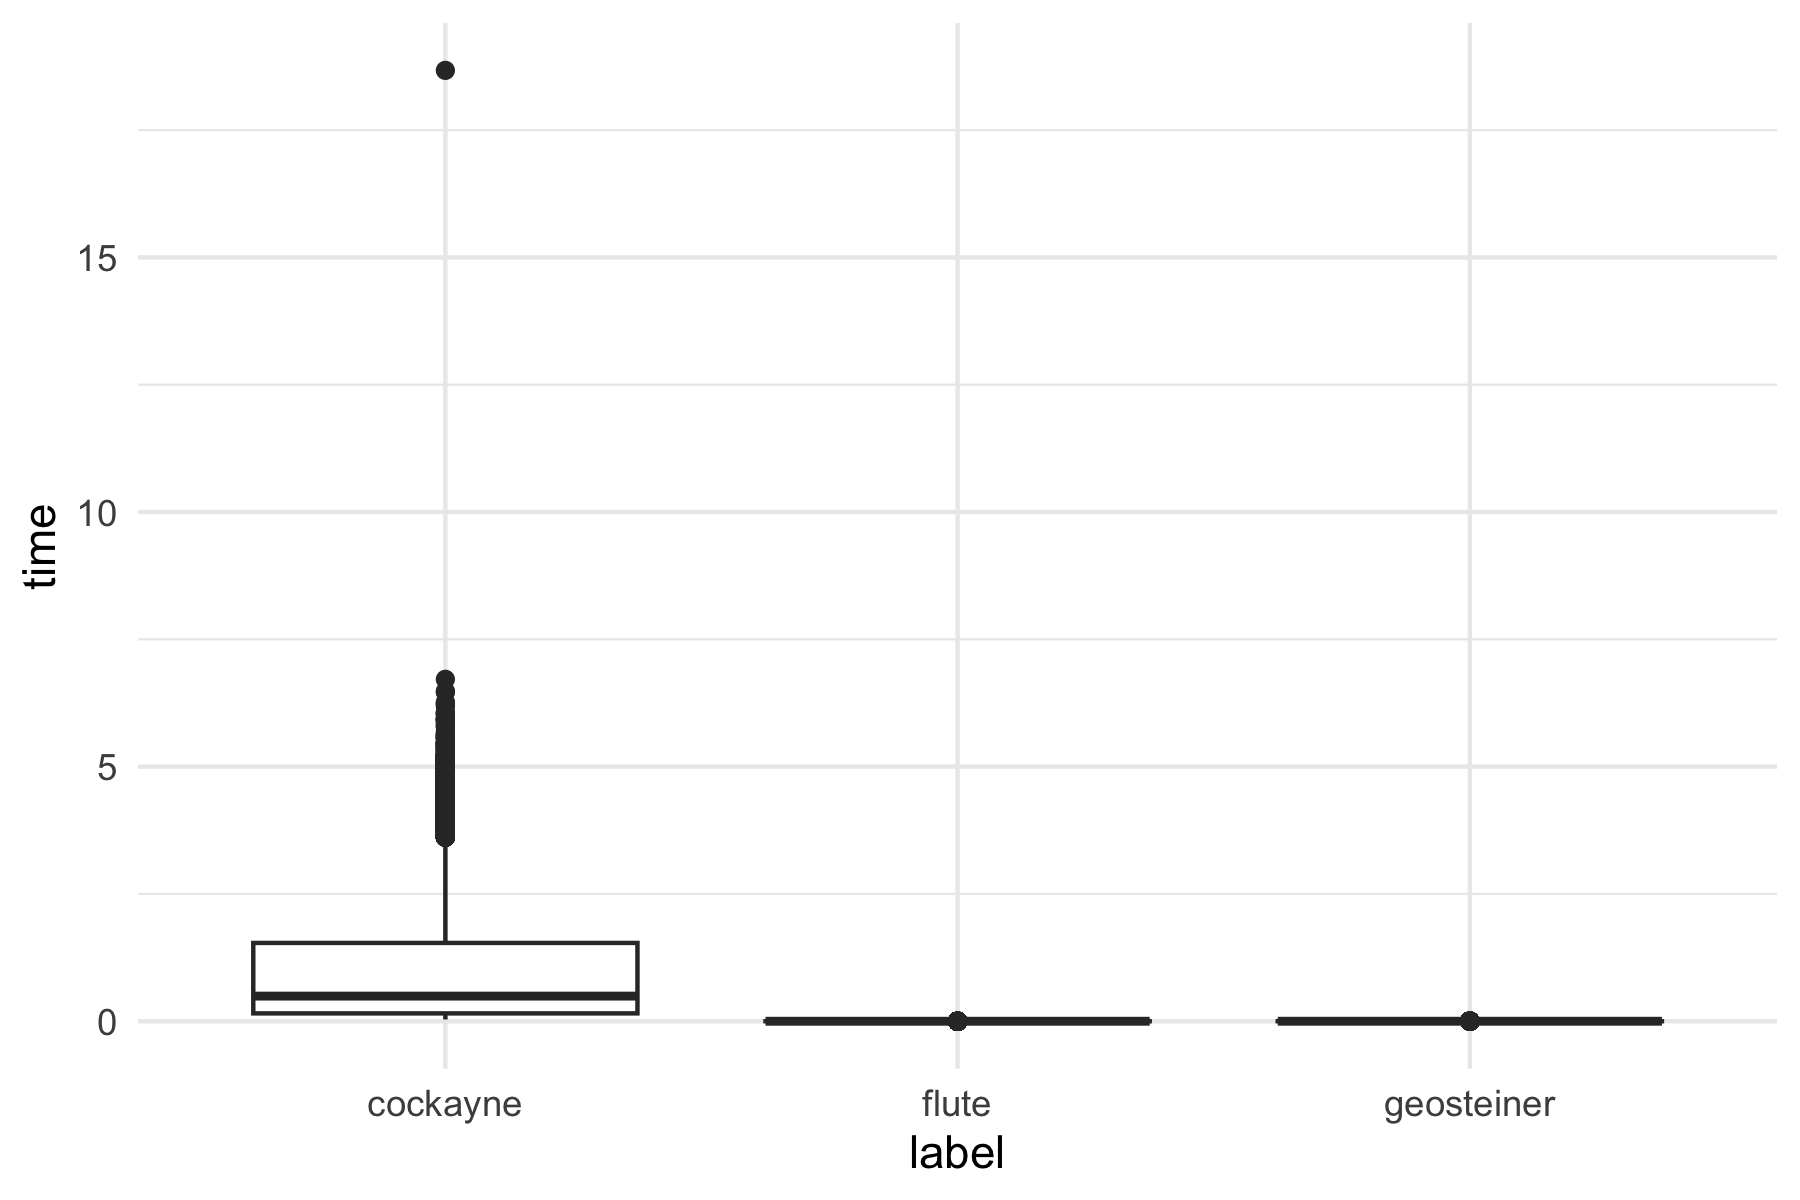
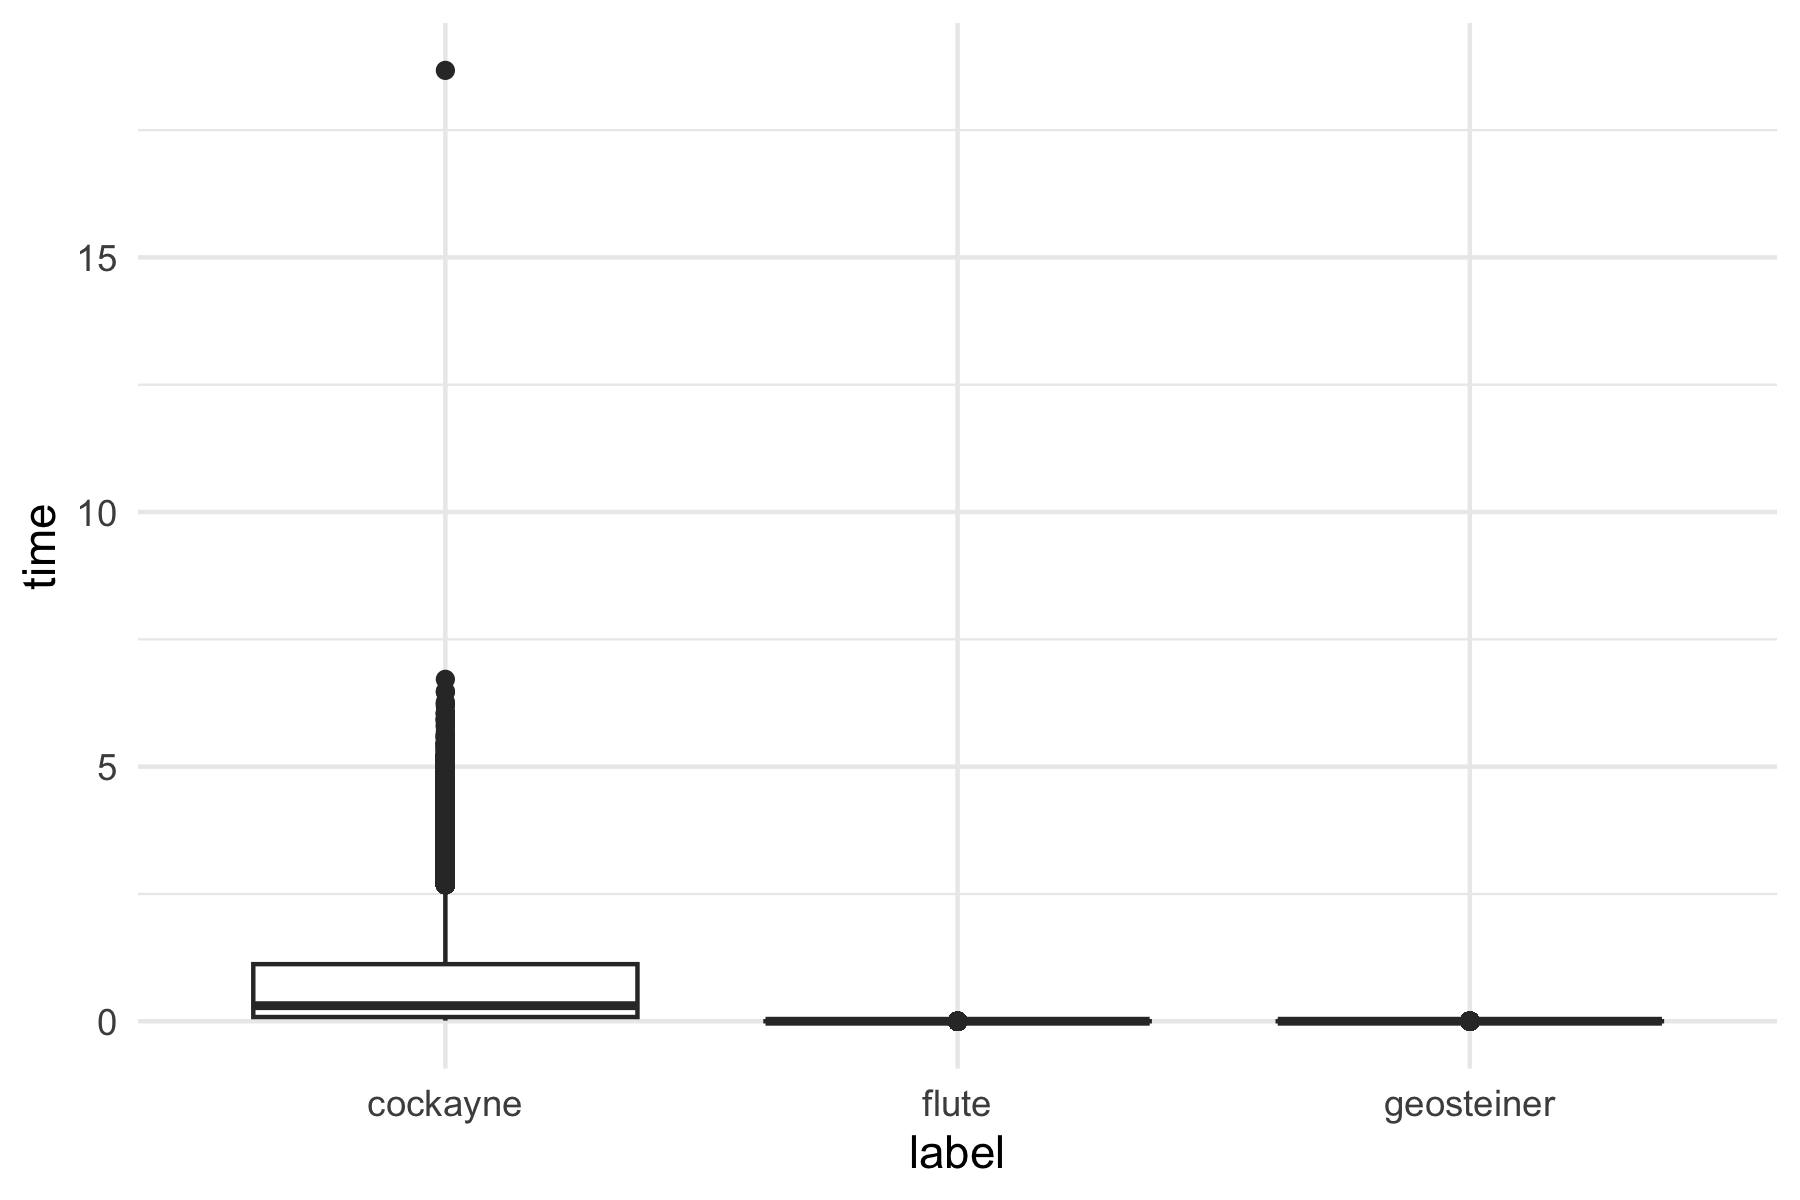
Included data analysis

Changed region(s): [[0.1244, 0.7708, 0.3733, 0.8633], [0.2178, 0.7092, 0.28, 0.74]]

diff --git a/README.md b/README.md
@@ -96,3 +96,96 @@ Dependencies:
 
 ```
 ```
+## 📊 Data Analysis
+
+After generating and collecting results from the three algorithms (Cockayne, Geosteiner, Flute), we perform exploratory data analysis and regression modeling in **R**.
+
+### 1. Loading the Data
+The combined results are stored in `datasets/summary.csv`. Each row corresponds to a test case and includes:
+- `num_points`: number of terminals
+- `grid_size`: maximum span of x/y coordinates
+- `*_steiner`: number of Steiner points detected by each algorithm
+- `*_wirelength`: total wirelength for each algorithm
+- `*_time`: CPU runtime for each algorithm
+
+```r
+df <- read.csv("datasets/summary.csv")
+head(df)
+````
+
+### 2. Runtime Comparison
+
+We reshape the runtime columns into a long format and compare distributions with **boxplots**:
+
+```r
+library(ggplot2)
+
+df2 <- data.frame(
+  time = c(df$cockayne_time, df$flute_time, df$geosteiner_time),
+  label = as.factor(c(
+    rep("cockayne", nrow(df)),
+    rep("flute", nrow(df)),
+    rep("geosteiner", nrow(df))
+  ))
+)
+
+p1 <- ggplot(df2, aes(x = label, y = time)) +
+  geom_boxplot() +
+  theme_minimal()
+
+ggsave("plots/myplot.png", plot = p1, width = 6, height = 4, dpi = 300)
+```
+
+📷 Example output (saved as `plots/myplot.png`):
+
+![Runtime Comparison](plots/myplot.png)
+
+### 3. Regression Models
+
+We fit linear regression models to identify which factors (number of points, grid size, Steiner points, wirelength) explain algorithm runtimes:
+
+```r
+# Cockayne
+m_cockayne <- lm(cockayne_time ~ as.factor(num_points) + grid_size + cockayne_steiner + cockayne_wirelength, data = df)
+summary(m_cockayne)
+
+# Geosteiner
+m_geo <- lm(geosteiner_time ~ as.factor(num_points) + grid_size + geosteiner_steiner + geosteiner_wirelength, data = df)
+summary(m_geo)
+
+# Flute
+m_flute <- lm(flute_time ~ as.factor(num_points) + grid_size + flute_steiner + flute_wirelength, data = df)
+summary(m_flute)
+```
+
+These models help quantify the effect of grid size and Steiner points on runtime.
+
+### 4. Diagnostic Plots
+
+Residual diagnostics for all models are saved together for model validation:
+
+```r
+jpeg("plots/all_diagnostics.jpg", width = 1800, height = 1200, res = 150)
+par(mfrow = c(3, 4))
+plot(m_cockayne, which = 1:4, main = "Cockayne")
+plot(m_geo, which = 1:4, main = "Geosteiner")
+plot(m_flute, which = 1:4, main = "Flute")
+dev.off()
+```
+
+📷 The resulting file `plots/all_diagnostics.jpg` contains **12 diagnostic plots** (4 for each algorithm).
+
+---
+
+### Summary
+
+* **Boxplots** show the distribution of runtimes across algorithms.
+* **Regression models** identify key predictors of runtime.
+* **Diagnostics** check assumptions of linear regression.
+
+This analysis pipeline provides both descriptive and inferential insights into algorithm performance.
+
+```
+
+---
+
